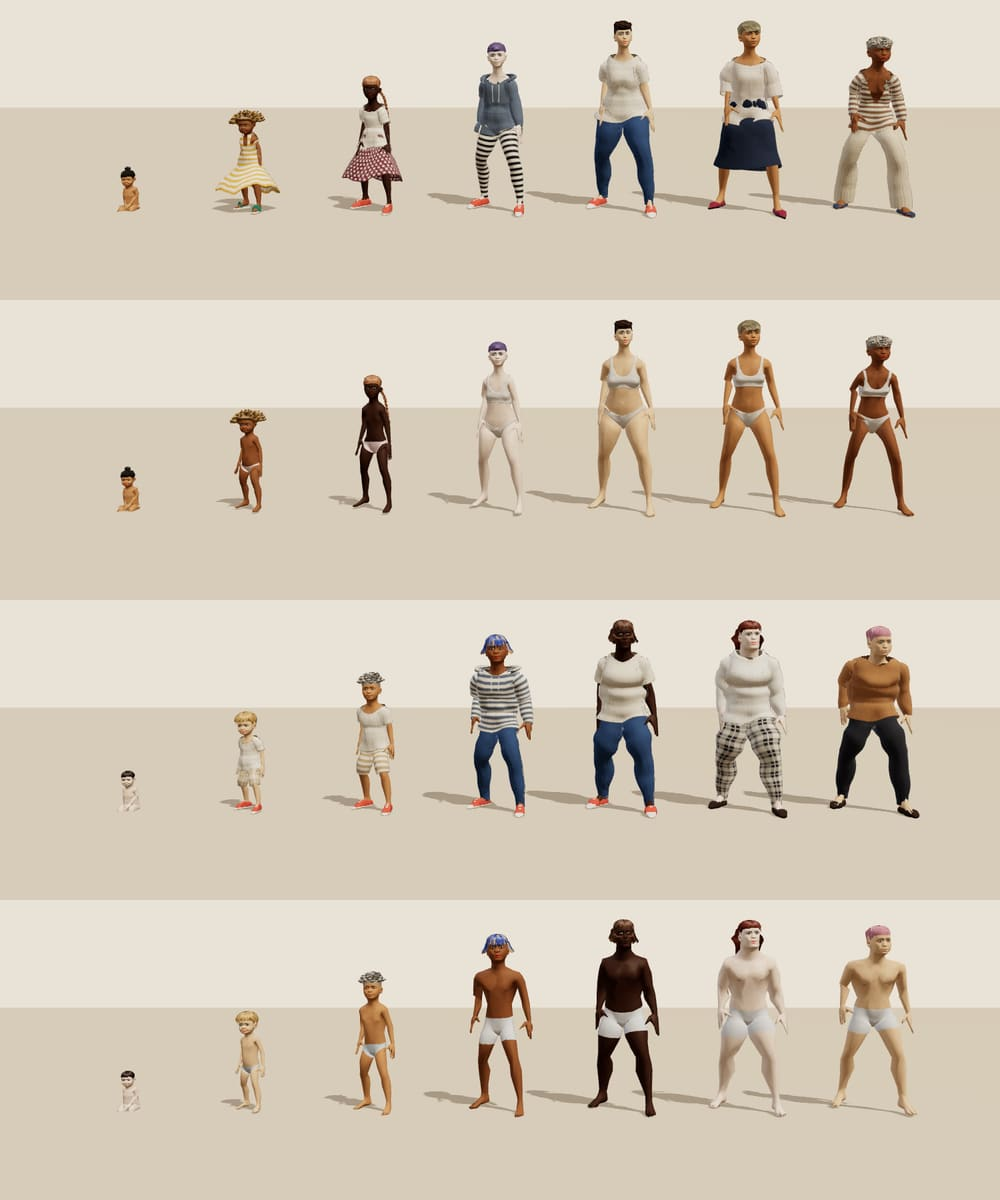
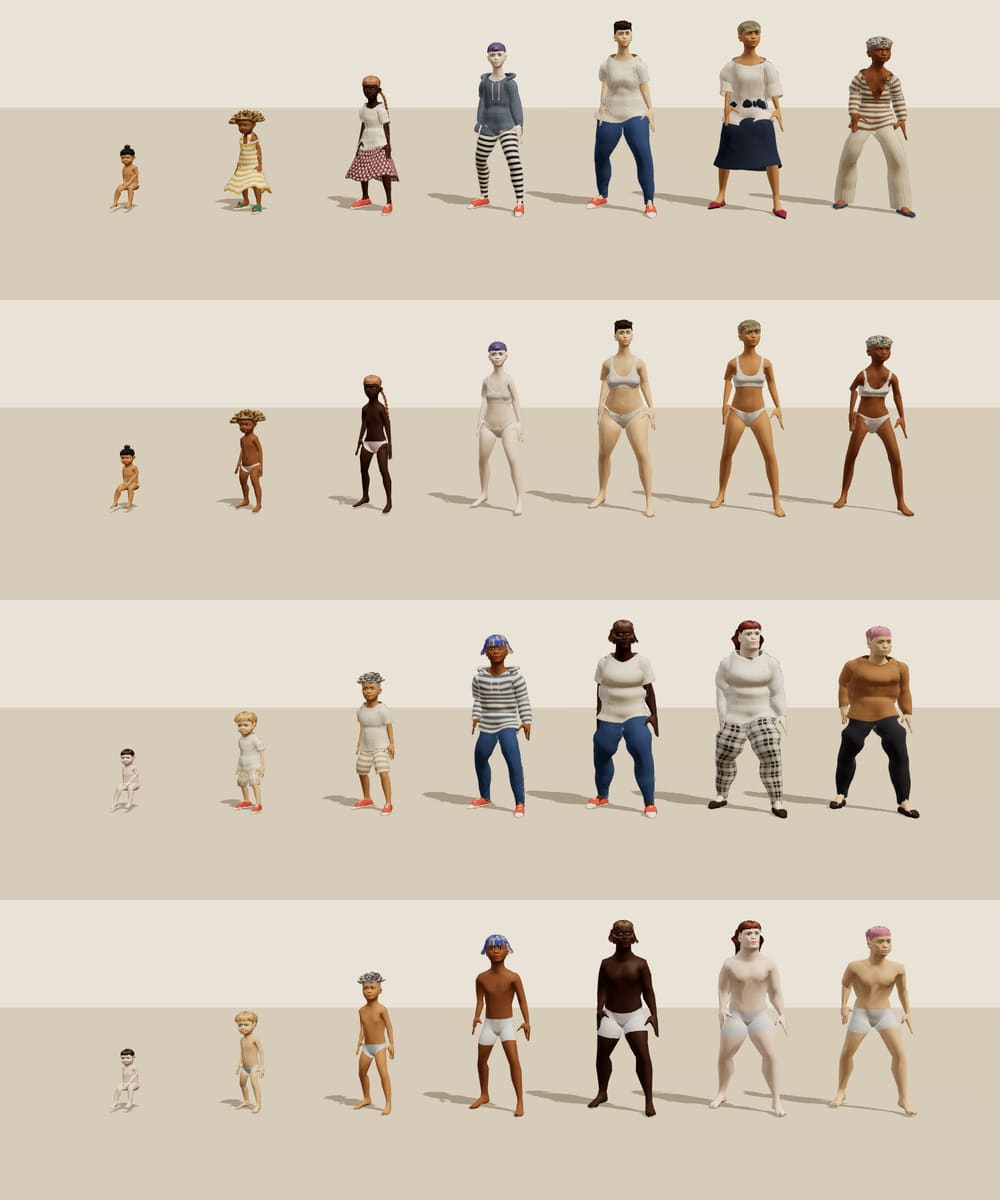
WIP M8 life-stage bodies done; portraits use the life stage
MPFB bodies for baby, toddler, child, teen and elder (format 2, lazy-loaded, scaled UAL
skeletons with retargeted root/pelvis tracks), stage-aware posture, carry and stoop poses.
In-game and creator portraits now render with the person's life stage.

Claude-Session: https://claude.ai/code/session_01Sk68ke1565YUofyCmAJJtB

diff --git a/src/game/Game.ts b/src/game/Game.ts
@@ -405,7 +405,7 @@ export class Game implements GameAPI {
       portrait: (person: PersonDraft) => {
         const pr = this.gameView.portraitRenderer;
         if (!pr) return Promise.resolve('');
-        return pr.request(person.appearance, outfitFor(person, 'everyday'));
+        return pr.request(person.appearance, outfitFor(person, 'everyday'), person.lifeStage);
       },
     };
   }
@@ -609,12 +609,12 @@ export class Game implements GameAPI {
     const pr = this.gameView.portraitRenderer;
     if (!p || !pr) return null;
     const outfit = outfitFor(p, 'everyday');
-    const key = portraitKey(p.appearance, outfit);
+    const key = portraitKey(p.appearance, outfit, p.lifeStage);
     const hit = pr.cached(key);
     if (hit) return hit;
     if (!this.portraitPending.has(key)) {
       this.portraitPending.add(key);
-      void pr.request(p.appearance, outfit).then((url) => {
+      void pr.request(p.appearance, outfit, p.lifeStage).then((url) => {
         this.portraitPending.delete(key);
         if (url) this.emit('portraits');
       });

diff --git a/src/ui/creator/members.ts b/src/ui/creator/members.ts
@@ -17,7 +17,7 @@ function hash(s: string): string {
 
 function portraitKey(p: PersonDraft): string {
   const cur = p.outfits.current;
-  return hash(JSON.stringify([p.appearance, p.outfits.outfits[cur.category]?.[cur.index] ?? null]));
+  return hash(JSON.stringify([p.appearance, p.outfits.outfits[cur.category]?.[cur.index] ?? null, p.lifeStage]));
 }
 
 let pointerIsDown = false;
